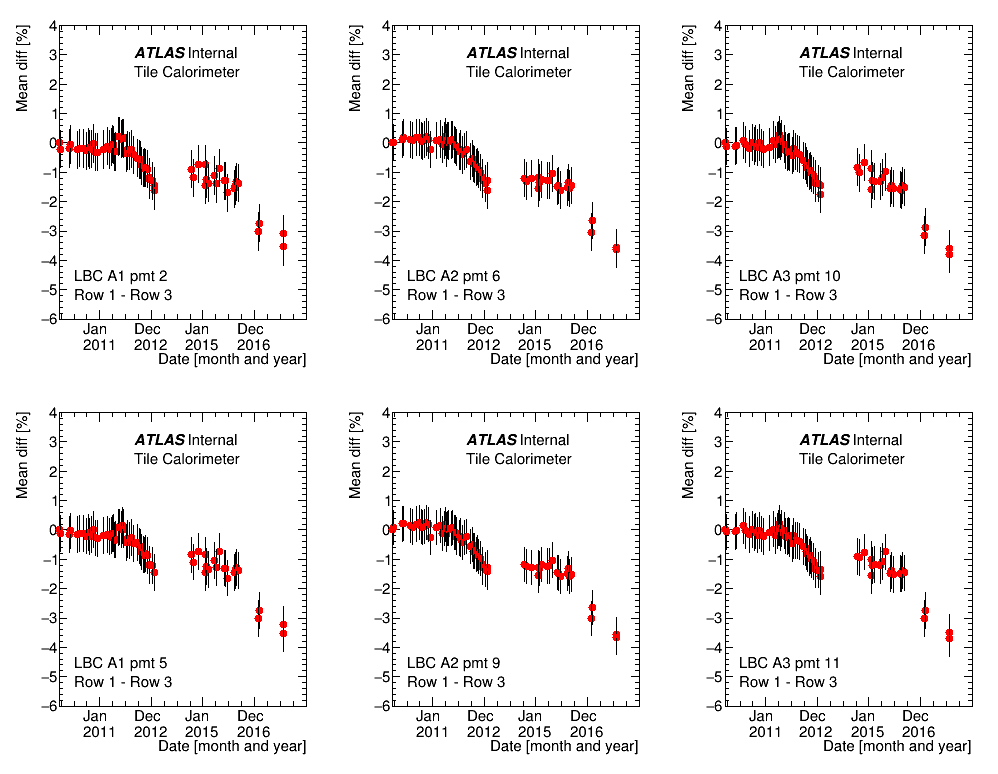
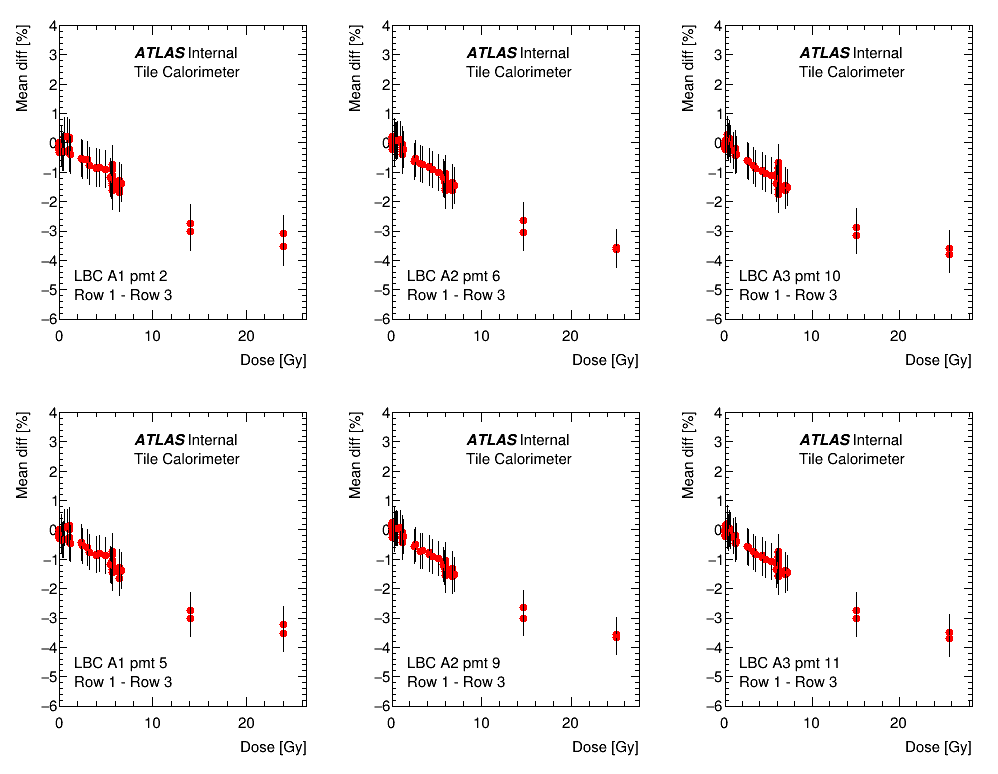
Included the code that reads the corresponding lumi lumi_counter.cpp in the main code CountROW.cpp. Wrote the code to plot scintillator degradation vs received dose.

diff --git a/CountROW.cpp b/CountROW.cpp
@@ -216,6 +216,15 @@ void CountROW(const char *partition, int row_1, int row_2, int iopt=1000)
   std::vector<float> mean_all[48];
   std::vector<float> rms_all[48];
   std::vector<float> date_all[48];
+  std::vector<float> dose_all[48];  
+
+  float Dose[4][48][13] = {
+    #include "Dose_lb.list"
+    #include "Dose_lb.list"
+    #include "Dose_eb.list"
+    #include "Dose_eb.list"
+  };
+
 
   //Filling histograms
   for(int i=0; i<nsetsize; ++i){
@@ -230,6 +239,7 @@ void CountROW(const char *partition, int row_1, int row_2, int iopt=1000)
       showratio_row(partition, runs, row_1-1, row_2-1, mean, rms);
       for (int ip=0; ip<48; ++ip){
         if (rms[ip]>=0) {
+          double lumi = lumi_counter(runday[ipart][i], runmonth[ipart][i], runyear[ipart][i]);
           if (m_first[ip]) {
             m_first[ip] = false;
             mean_first[ip] = mean[ip];
@@ -237,13 +247,18 @@ void CountROW(const char *partition, int row_1, int row_2, int iopt=1000)
           hist_mean[ip]->Fill(mean[ip]-mean_first[ip]);
           hist_rms[ip]->Fill(rms[ip]);
           hprof_rms[ip]->Fill(dtim,rms[ip]);
-          mean_all[ip].push_back(mean[ip]-mean_first[ip]);
+          std::cout << "Lumi: " << lumi << endl;
+          std::cout << "Dose (row_1 - row_2): " << Dose[ipart][ip][row_1-1]-Dose[ipart][ip][row_2-1] << endl;
+          std::cout << "[Dose (row_1 - row_2)] * lumi: " << (Dose[ipart][ip][row_1-1]-Dose[ipart][ip][row_2-1])*lumi << endl;
+          mean_all[ip].push_back((mean[ip]-mean_first[ip]));
+          dose_all[ip].push_back((Dose[ipart][ip][row_1-1]-Dose[ipart][ip][row_2-1])*lumi/1000000.);
+          std::cout << "dose_all: " << dose_all[ip][i] << endl;
           rms_all[ip].push_back(rms[ip]);
           date_all[ip].push_back(dtim);
         }
-      }
+      } //PMT loop
     }
-  }
+  } //Netsize loop
 
   std::vector<float> err_x;
   std::vector<float> err_y;
@@ -261,13 +276,15 @@ void CountROW(const char *partition, int row_1, int row_2, int iopt=1000)
       std::cout << std::endl << std::endl;
     }
     err_y.clear();
-    err_y.resize(nsetsize, ratio_rms(iLBC,ip,row_1-1,row_2-1));
-    TGraphErrors *gr = new TGraphErrors(date_all[ip].size(),&(date_all[ip][0]),&(mean_all[ip][0]),&(err_x[0]),&(err_y[0]));
+    err_y.resize(nsetsize, ratio_rms(ipart,ip,row_1-1,row_2-1));
+    //TGraphErrors *gr = new TGraphErrors(date_all[ip].size(),&(date_all[ip][0]),&(mean_all[ip][0]),&(err_x[0]),&(err_y[0]));
+    TGraphErrors *gr = new TGraphErrors(dose_all[ip].size(),&(dose_all[ip][0]),&(mean_all[ip][0]),&(err_x[0]),&(err_y[0]));
     gr->SetName(sname);
     gr->SetTitle(stitle);
-    gr->GetXaxis()->SetTitle("Date [month and year]");
-    gr->GetXaxis()->SetTimeDisplay(1);
-    gr->GetXaxis()->SetTimeFormat(timeformat); 
+    //gr->GetXaxis()->SetTitle("Date [month and year]");
+    gr->GetXaxis()->SetTitle("Dose [Gy]");
+    //gr->GetXaxis()->SetTimeDisplay(1);
+    //gr->GetXaxis()->SetTimeFormat(timeformat); 
     gr->GetXaxis()->SetLabelOffset(0.02); 
     gr->GetYaxis()->SetTitle("Mean diff [%]");
     gr_diff[ip] = gr;
